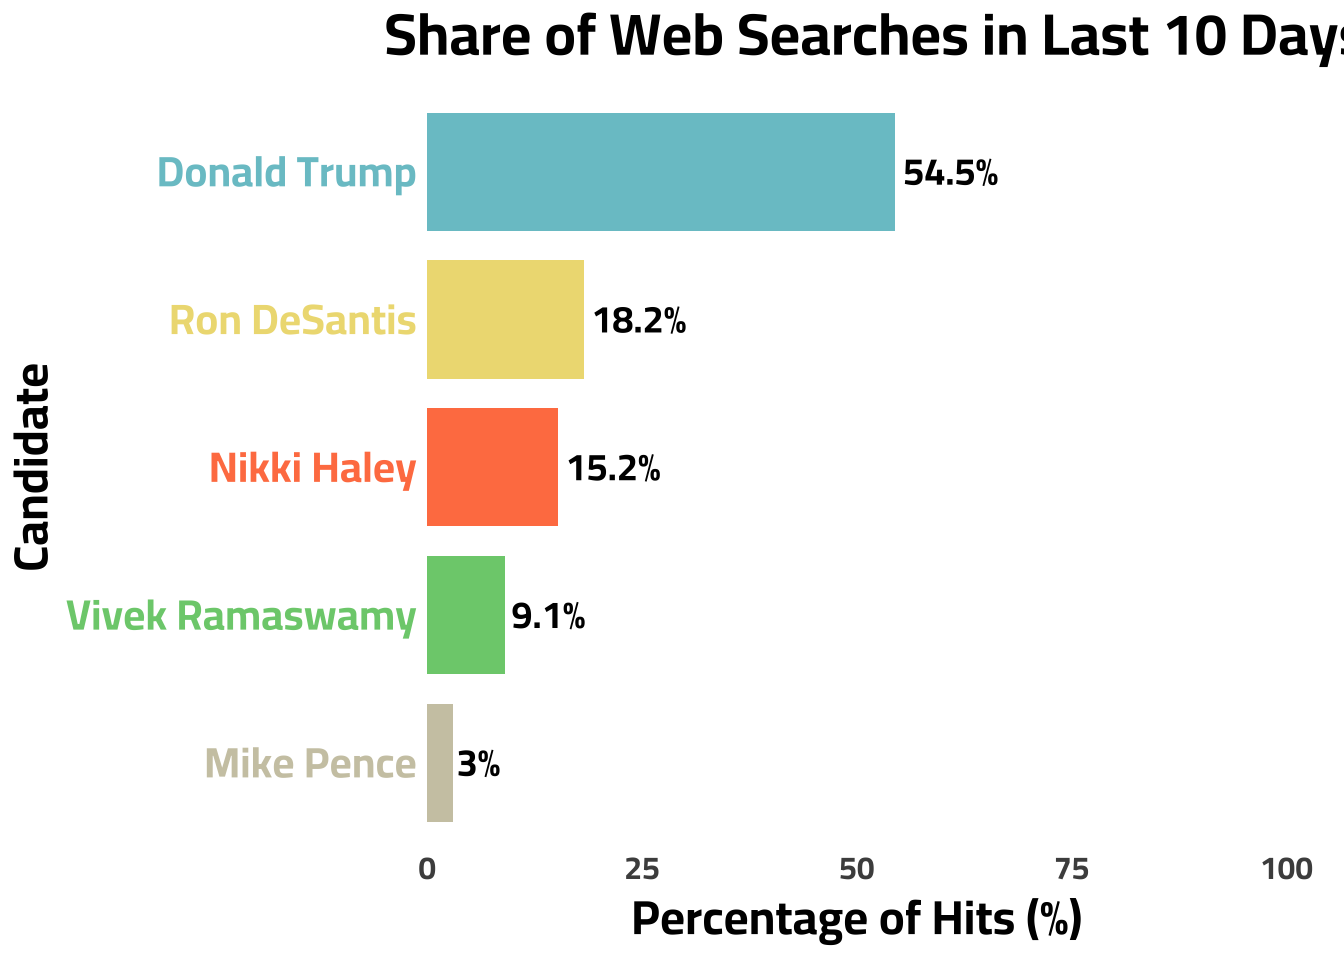
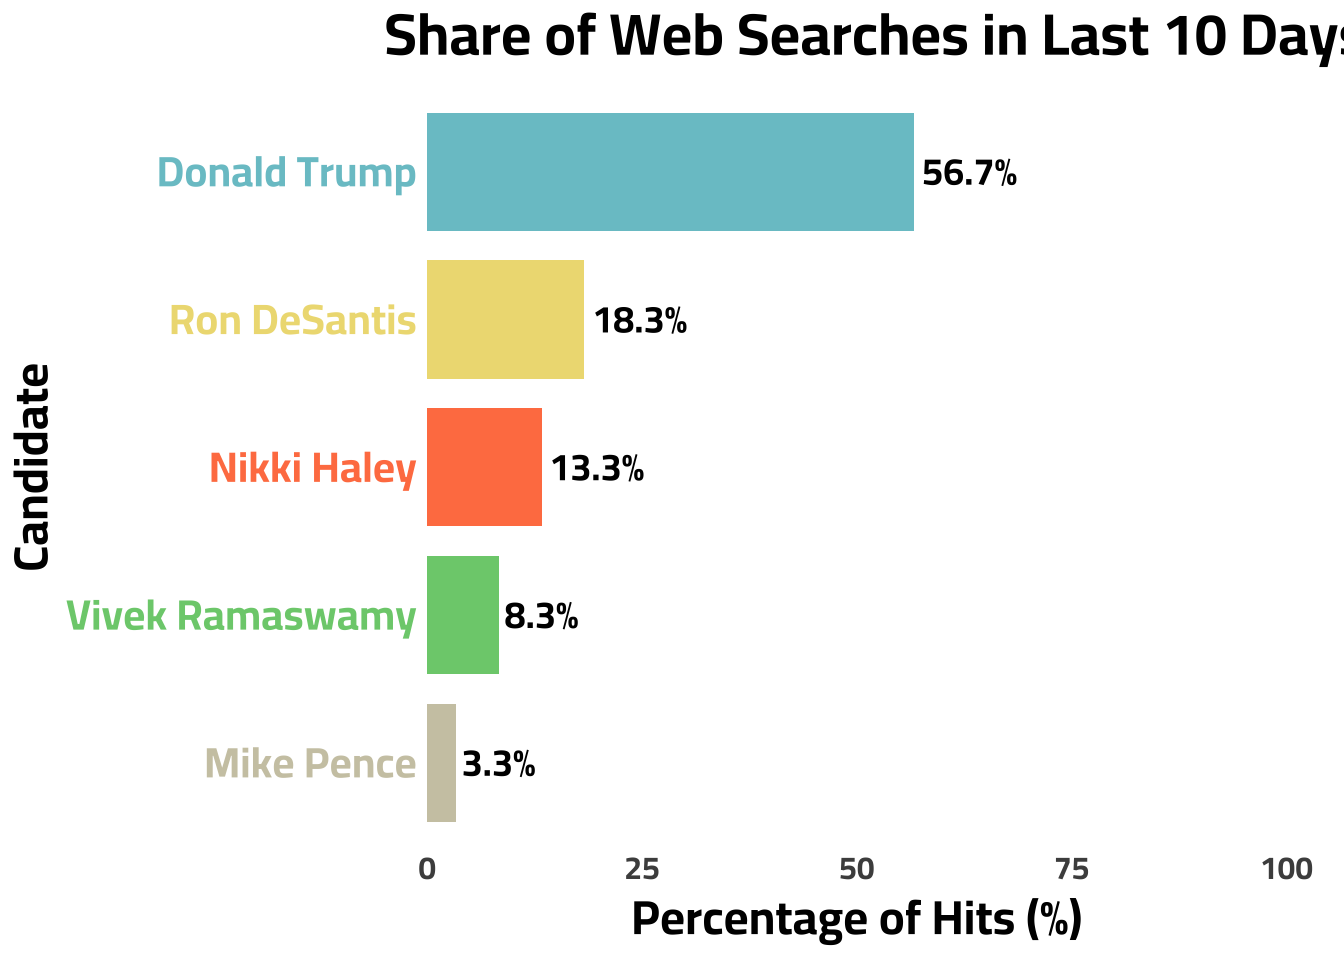
StreamGraph Update

diff --git a/_site/blog.html b/_site/blog.html
@@ -178,7 +178,7 @@ ul.task-list li input[type="checkbox"] {
 
 <div class="quarto-listing quarto-listing-container-default" id="listing-listing">
 <div class="list quarto-listing-default">
-<div class="quarto-post image-right" data-index="0" data-categories="Life Hacks,Commentary" data-listing-date-sort="1697760000000" data-listing-file-modified-sort="1697977282046" data-listing-date-modified-sort="NaN" data-listing-reading-time-sort="8">
+<div class="quarto-post image-right" data-index="0" data-categories="Life Hacks,Commentary" data-listing-date-sort="1697760000000" data-listing-file-modified-sort="1698063859057" data-listing-date-modified-sort="NaN" data-listing-reading-time-sort="8">
 <div class="thumbnail">
 <p><a href="./posts/path_to_datascience/index.html"> <img src="./posts/path_to_datascience/tile.png" class="thumbnail-image"> </a></p>
 </div>
@@ -209,7 +209,7 @@ Oct 20, 2023
 </a>
 </div>
 </div>
-<div class="quarto-post image-right" data-index="1" data-categories="Google Trends,Data Journalism,Politics,CICD" data-listing-date-sort="1696377600000" data-listing-file-modified-sort="1697977282048" data-listing-date-modified-sort="NaN" data-listing-reading-time-sort="7">
+<div class="quarto-post image-right" data-index="1" data-categories="Google Trends,Data Journalism,Politics,CICD" data-listing-date-sort="1696377600000" data-listing-file-modified-sort="1698063859058" data-listing-date-modified-sort="NaN" data-listing-reading-time-sort="7">
 <div class="thumbnail">
 <p><a href="./posts/primary_stream/index.html"> <img src="././about_files/primary_1.png" class="thumbnail-image"> </a></p>
 </div>
@@ -246,7 +246,7 @@ Oct 4, 2023
 </a>
 </div>
 </div>
-<div class="quarto-post image-right" data-index="2" data-categories="CICD,Quarto" data-listing-date-sort="1694044800000" data-listing-file-modified-sort="1697977282043" data-listing-date-modified-sort="NaN" data-listing-reading-time-sort="8">
+<div class="quarto-post image-right" data-index="2" data-categories="CICD,Quarto" data-listing-date-sort="1694044800000" data-listing-file-modified-sort="1698063859053" data-listing-date-modified-sort="NaN" data-listing-reading-time-sort="8">
 <div class="thumbnail">
 <p><a href="./posts/cicd_primary/index.html"> <img src="https://external-content.duckduckgo.com/iu/?u=https%3A%2F%2Fwww.adictosaltrabajo.com%2Fwp-content%2Fuploads%2F2020%2F10%2Fandroid-github-actions-setup-image-35b6a79fea4a7289acb6796cd4ad05b4.png&amp;f=1&amp;nofb=1&amp;ipt=b02a4ecfb6e2d666f35916b643a6f3e9907e880252d1e19d3eda47521252e9c3&amp;ipo=images" class="thumbnail-image"> </a></p>
 </div>
@@ -277,7 +277,7 @@ Sep 7, 2023
 </a>
 </div>
 </div>
-<div class="quarto-post image-right" data-index="3" data-categories="Life Hacks,Quarto" data-listing-date-sort="1688601600000" data-listing-file-modified-sort="1697977282049" data-listing-date-modified-sort="NaN" data-listing-reading-time-sort="3">
+<div class="quarto-post image-right" data-index="3" data-categories="Life Hacks,Quarto" data-listing-date-sort="1688601600000" data-listing-file-modified-sort="1698063859059" data-listing-date-modified-sort="NaN" data-listing-reading-time-sort="3">
 <div class="thumbnail">
 <p><a href="./posts/simple_analytics/index.html"> <img src="./about_files/Simple_Analytics.png" class="thumbnail-image"> </a></p>
 </div>
@@ -308,7 +308,7 @@ Jul 6, 2023
 </a>
 </div>
 </div>
-<div class="quarto-post image-right" data-index="4" data-categories="Data Journalism,Google Trends,Politics" data-listing-date-sort="1687824000000" data-listing-file-modified-sort="1697977282043" data-listing-date-modified-sort="NaN" data-listing-reading-time-sort="7">
+<div class="quarto-post image-right" data-index="4" data-categories="Data Journalism,Google Trends,Politics" data-listing-date-sort="1687824000000" data-listing-file-modified-sort="1698063859054" data-listing-date-modified-sort="NaN" data-listing-reading-time-sort="7">
 <div class="thumbnail">
 <p><a href="./posts/google_trends/index.html"> <img src="./about_files/byteman.png" class="thumbnail-image"> </a></p>
 </div>
@@ -342,7 +342,7 @@ Jun 27, 2023
 </a>
 </div>
 </div>
-<div class="quarto-post image-right" data-index="5" data-categories="Data Journalism,LDS,R" data-listing-date-sort="1675728000000" data-listing-file-modified-sort="1697977282044" data-listing-date-modified-sort="NaN" data-listing-reading-time-sort="4">
+<div class="quarto-post image-right" data-index="5" data-categories="Data Journalism,LDS,R" data-listing-date-sort="1675728000000" data-listing-file-modified-sort="1698063859054" data-listing-date-modified-sort="NaN" data-listing-reading-time-sort="4">
 <div class="thumbnail">
 <p><a href="./posts/income_myth/index.html"> <img src="./about_files/LDS_myth_0.png" class="thumbnail-image"> </a></p>
 </div>
@@ -376,7 +376,7 @@ Feb 7, 2023
 </a>
 </div>
 </div>
-<div class="quarto-post image-right" data-index="6" data-categories="Life Hacks,Quarto" data-listing-date-sort="1662076800000" data-listing-file-modified-sort="1697977282048" data-listing-date-modified-sort="NaN" data-listing-reading-time-sort="4">
+<div class="quarto-post image-right" data-index="6" data-categories="Life Hacks,Quarto" data-listing-date-sort="1662076800000" data-listing-file-modified-sort="1698063859058" data-listing-date-modified-sort="NaN" data-listing-reading-time-sort="4">
 <div class="thumbnail">
 <p><a href="./posts/resume/index.html"> <img src="./about_files/resume_2.png" class="thumbnail-image"> </a></p>
 </div>
@@ -407,7 +407,7 @@ Sep 2, 2022
 </a>
 </div>
 </div>
-<div class="quarto-post image-right" data-index="7" data-categories="Survey Research,Data Journalism,LDS" data-listing-date-sort="1646265600000" data-listing-file-modified-sort="1697977282041" data-listing-date-modified-sort="NaN" data-listing-reading-time-sort="7">
+<div class="quarto-post image-right" data-index="7" data-categories="Survey Research,Data Journalism,LDS" data-listing-date-sort="1646265600000" data-listing-file-modified-sort="1698063859051" data-listing-date-modified-sort="NaN" data-listing-reading-time-sort="7">
 <div class="thumbnail">
 <p><a href="./posts/7_facts/index.html"> <img src="https://www.ldstemple.pics/wp-content/uploads/washington-dc-temple-final-sunset-600x600.jpg" class="thumbnail-image"> </a></p>
 </div>
@@ -441,7 +441,7 @@ Mar 3, 2022
 </a>
 </div>
 </div>
-<div class="quarto-post image-right" data-index="8" data-categories="Data Journalism,R" data-listing-date-sort="1618012800000" data-listing-file-modified-sort="1697977282043" data-listing-date-modified-sort="NaN" data-listing-reading-time-sort="4">
+<div class="quarto-post image-right" data-index="8" data-categories="Data Journalism,R" data-listing-date-sort="1618012800000" data-listing-file-modified-sort="1698063859053" data-listing-date-modified-sort="NaN" data-listing-reading-time-sort="4">
 <div class="thumbnail">
 <p><a href="./posts/facebook_data/index.html"> <img src="./about_files/fb_icon" class="thumbnail-image"> </a></p>
 </div>
@@ -472,7 +472,7 @@ Apr 10, 2021
 </a>
 </div>
 </div>
-<div class="quarto-post image-right" data-index="9" data-categories="Data Journalism,R,Survey Research,LDS,Politics" data-listing-date-sort="1607472000000" data-listing-file-modified-sort="1697977282044" data-listing-date-modified-sort="NaN" data-listing-reading-time-sort="8">
+<div class="quarto-post image-right" data-index="9" data-categories="Data Journalism,R,Survey Research,LDS,Politics" data-listing-date-sort="1607472000000" data-listing-file-modified-sort="1698063859054" data-listing-date-modified-sort="NaN" data-listing-reading-time-sort="8">
 <div class="thumbnail">
 <p><a href="./posts/lds_gop/index.html"> <img src="./about_files/iu-3.jpeg" class="thumbnail-image"> </a></p>
 </div>
@@ -512,7 +512,7 @@ Dec 9, 2020
 </a>
 </div>
 </div>
-<div class="quarto-post image-right" data-index="10" data-categories="Data Journalism,R" data-listing-date-sort="1594339200000" data-listing-file-modified-sort="1697977282042" data-listing-date-modified-sort="NaN" data-listing-reading-time-sort="7">
+<div class="quarto-post image-right" data-index="10" data-categories="Data Journalism,R" data-listing-date-sort="1594339200000" data-listing-file-modified-sort="1698063859052" data-listing-date-modified-sort="NaN" data-listing-reading-time-sort="7">
 <div class="thumbnail">
 <p><a href="./posts/cars/index.html"> <img src="https://media.giphy.com/media/rUE9CTmsYMbbOz2MqD/giphy.gif" class="thumbnail-image"> </a></p>
 </div>
@@ -543,7 +543,7 @@ Jul 10, 2020
 </a>
 </div>
 </div>
-<div class="quarto-post image-right" data-index="11" data-categories="Data Journalism,R,Shiny" data-listing-date-sort="1591660800000" data-listing-file-modified-sort="1697977282045" data-listing-date-modified-sort="NaN" data-listing-reading-time-sort="7">
+<div class="quarto-post image-right" data-index="11" data-categories="Data Journalism,R,Shiny" data-listing-date-sort="1591660800000" data-listing-file-modified-sort="1698063859055" data-listing-date-modified-sort="NaN" data-listing-reading-time-sort="7">
 <div class="thumbnail">
 <p><a href="./posts/mobility/index.html"> <img src="./about_files/iu-2.jpeg" class="thumbnail-image"> </a></p>
 </div>

diff --git a/_site/projects.html b/_site/projects.html
@@ -178,7 +178,7 @@ ul.task-list li input[type="checkbox"] {
 
 <div class="quarto-listing quarto-listing-container-grid" id="listing-listing">
 <div class="list grid quarto-listing-cols-3">
-<div class="g-col-1" data-index="0" data-categories="Capstone,Python,Stats" data-listing-date-sort="1682899200000" data-listing-file-modified-sort="1697977282063" data-listing-date-modified-sort="NaN" data-listing-reading-time-sort="4">
+<div class="g-col-1" data-index="0" data-categories="Capstone,Python,Stats" data-listing-date-sort="1682899200000" data-listing-file-modified-sort="1698063859073" data-listing-date-modified-sort="NaN" data-listing-reading-time-sort="4">
 <a href="./projects/internet_archive/index.html" class="quarto-grid-link">
 <div class="quarto-grid-item card h-100 card-left">
 <p class="card-img-top">
@@ -211,7 +211,7 @@ May 1, 2023
 </div>
 </a>
 </div>
-<div class="g-col-1" data-index="1" data-categories="Python,Stats,Dataviz" data-listing-date-sort="1660867200000" data-listing-file-modified-sort="1697977282059" data-listing-date-modified-sort="NaN" data-listing-reading-time-sort="10">
+<div class="g-col-1" data-index="1" data-categories="Python,Stats,Dataviz" data-listing-date-sort="1660867200000" data-listing-file-modified-sort="1698063859069" data-listing-date-modified-sort="NaN" data-listing-reading-time-sort="10">
 <a href="./projects/bayesian_county/index.html" class="quarto-grid-link">
 <div class="quarto-grid-item card h-100 card-left">
 <p class="card-img-top">
@@ -244,7 +244,7 @@ Aug 19, 2022
 </div>
 </a>
 </div>
-<div class="g-col-1" data-index="2" data-categories="CI/CD,R,Dataviz" data-listing-date-sort="1636329600000" data-listing-file-modified-sort="1697977282060" data-listing-date-modified-sort="NaN" data-listing-reading-time-sort="3">
+<div class="g-col-1" data-index="2" data-categories="CI/CD,R,Dataviz" data-listing-date-sort="1636329600000" data-listing-file-modified-sort="1698063859069" data-listing-date-modified-sort="NaN" data-listing-reading-time-sort="3">
 <a href="./projects/covid_update/index.html" class="quarto-grid-link">
 <div class="quarto-grid-item card h-100 card-left">
 <p class="card-img-top">
@@ -277,7 +277,7 @@ Nov 8, 2021
 </div>
 </a>
 </div>
-<div class="g-col-1" data-index="3" data-categories="Dataviz,Stats,R" data-listing-date-sort="1600387200000" data-listing-file-modified-sort="1697977282061" data-listing-date-modified-sort="NaN" data-listing-reading-time-sort="2">
+<div class="g-col-1" data-index="3" data-categories="Dataviz,Stats,R" data-listing-date-sort="1600387200000" data-listing-file-modified-sort="1698063859071" data-listing-date-modified-sort="NaN" data-listing-reading-time-sort="2">
 <a href="./projects/election_model/index.html" class="quarto-grid-link">
 <div class="quarto-grid-item card h-100 card-left">
 <p class="card-img-top">
@@ -310,7 +310,7 @@ Sep 18, 2020
 </div>
 </a>
 </div>
-<div class="g-col-1" data-index="4" data-categories="R,Shiny" data-listing-date-sort="1596153600000" data-listing-file-modified-sort="1697977282064" data-listing-date-modified-sort="NaN" data-listing-reading-time-sort="2">
+<div class="g-col-1" data-index="4" data-categories="R,Shiny" data-listing-date-sort="1596153600000" data-listing-file-modified-sort="1698063859074" data-listing-date-modified-sort="NaN" data-listing-reading-time-sort="2">
 <a href="./projects/peanuts/index.html" class="quarto-grid-link">
 <div class="quarto-grid-item card h-100 card-left">
 <p class="card-img-top">
@@ -340,7 +340,7 @@ Jul 31, 2020
 </div>
 </a>
 </div>
-<div class="g-col-1" data-index="5" data-categories="Capstone,R,Stats" data-listing-date-sort="1587772800000" data-listing-file-modified-sort="1697977282066" data-listing-date-modified-sort="NaN" data-listing-reading-time-sort="6">
+<div class="g-col-1" data-index="5" data-categories="Capstone,R,Stats" data-listing-date-sort="1587772800000" data-listing-file-modified-sort="1698063859076" data-listing-date-modified-sort="NaN" data-listing-reading-time-sort="6">
 <a href="./projects/star_wars_capstone/index.html" class="quarto-grid-link">
 <div class="quarto-grid-item card h-100 card-left">
 <p class="card-img-top">

diff --git a/_site/posts/primary_stream/index.html b/_site/posts/primary_stream/index.html
@@ -181,7 +181,7 @@ Note
 </div>
 </div>
 <div class="callout-body-container callout-body">
-<p>This graph is updated on a daily basis to provide continuous context to the GOP Primary Election. This graph was last updated: 12:21:33 on 22 Oct 2023</p>
+<p>This graph is updated on a daily basis to provide continuous context to the GOP Primary Election. This graph was last updated: 12:24:28 on 23 Oct 2023</p>
 </div>
 </div>
 <div class="cell">
@@ -234,7 +234,7 @@ Note
 </div>
 </div>
 <div class="callout-body-container callout-body">
-<p>This graph is updated on a daily basis to provide continuous context to the GOP Primary Election. This graph was last updated: 12:21:40 on 22 Oct 2023</p>
+<p>This graph is updated on a daily basis to provide continuous context to the GOP Primary Election. This graph was last updated: 12:24:34 on 23 Oct 2023</p>
 </div>
 </div>
 <p>This graph is provided to give a barometer reading of a candidates <em>recent</em> popularity/news coverage.</p>
